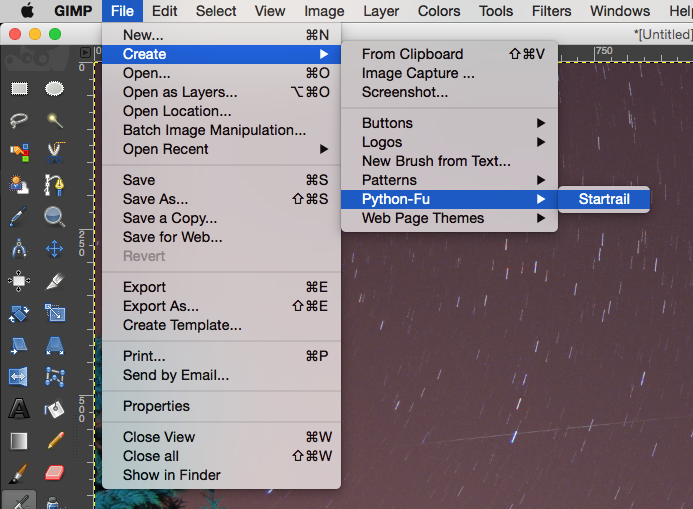
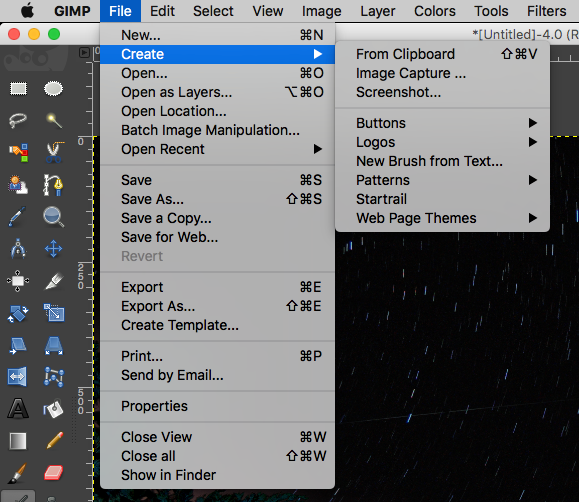
Update docs to reflect changes in PR #2

diff --git a/README.md b/README.md
@@ -6,26 +6,27 @@ This plugin requires Python to work. On Linux and OSX this will be preinstalled 
 
 To install the plugin, copy the file `startrail.py` into a plugin folder of your choice. You can either place it in the default locations (see [below](#default-plugin-folders)), or my preference, by adding a plugin folder in my home directory to the plugins.
 
-This last option can be done by going to Preferences :arrow_right: Folders :arrow_right: Plug-Ins.  Here you can add a new folder by clicking the new buton (:page_facing_up:) and then navigating to the folder.  <a id="default-plugin-folders"/>You will also be able to see the default locations used on this dialog.
+This last option can be done by going to Preferences :arrow_right: Folders :arrow_right: Plug-Ins.  Here you can add a new folder by clicking the new button (:page_facing_up:) and then navigating to the folder.  <a id="default-plugin-folders"/>You will also be able to see the default locations used on this dialog.
 
 Once done reload GIMP to have the changes take effect.
 
 # Usage
 
-Once installed the menu option can be found under File :arrow_right: Create :arrow_right: Python-Fu :arrow_right: Startrail
+Once installed the menu option can be found under File :arrow_right: Create :arrow_right: Startrail
 
 ![Menu bar](https://raw.githubusercontent.com/themaninthesuitcase/gimp-startrail-compositor/master/images/menu.png)
 
 Once loaded you will be given 7 options to set:
-* **Light Frames**: the folder containing all your light frames, ie the ones you can see the stars in.
+* **Light Frames**: the folder containing all your light frames, i.e. the ones you can see the stars in.
 * **Use Dark Frames**: Do you want to use dark frame noise reduction
-* **Dark Frames**: the folder containing all your dark frames, ie the ones you took with the lens cap on.
+* **Dark Frames**: the folder containing all your dark frames, i.e. the ones you took with the lens cap on.
 * **Save intermediate frames**: Checking this will save an image after each frame is layered, allowing you to make a time lapse of the trail building up.
 * **Intermediate save directory**: The directory to save the intermediate frames to.  They will be named trail00001.jpg, trail00002.jpg and so on.
 * **Live display update *(MUCH slower)***: This will display the frames to the screen live as they are stacked together.  This slows the process down considerably, around 3-4 times slower.  Because of the speed issue, this is disabled by default.
 * **Merge all images into a single layer**: This will merge each layer into 1 final image as the stacking progresses.  Disabling this will leave each image in it's own layer. This will add a lot more time to the stack and use more memory but gives more options in post processing.
+* **Automatically remove skyglow**: Attempts to reduce the effect of sky glow by creating a copy of each light frame and applying a heavy blur.  This is then subtracted from the light frame before stacking.  The theory being the blur removes the detail leaving only the sky glow which can then be removed.  See this article for detail on how this works: [Creating star trails with automatic sky glow removal](http://fstop138.berrange.com/2016/08/creating-star-trails-with-automatic-sky-glow-removal/).  This will approximately double the time to process each frame.
 
-![Options dialog](https://raw.githubusercontent.com/themaninthesuitcase/gimp-startrail-compositor/master/images/Screen%20Shot%202014-12-28%20at%2013.42.34.png)
+![Options dialog](https://raw.githubusercontent.com/themaninthesuitcase/gimp-startrail-compositor/master/images/controls.png)
 
 Currently the plug-in will look for files with the following file extensions:
 jpg, jpeg, tiff, tif, bmp and png.
